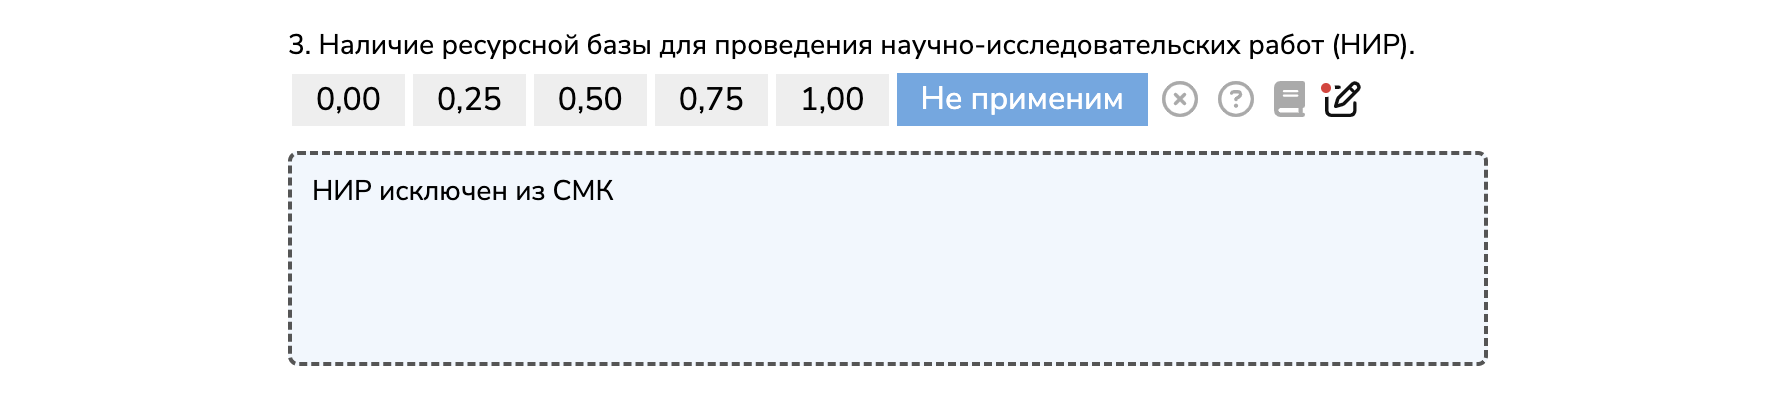
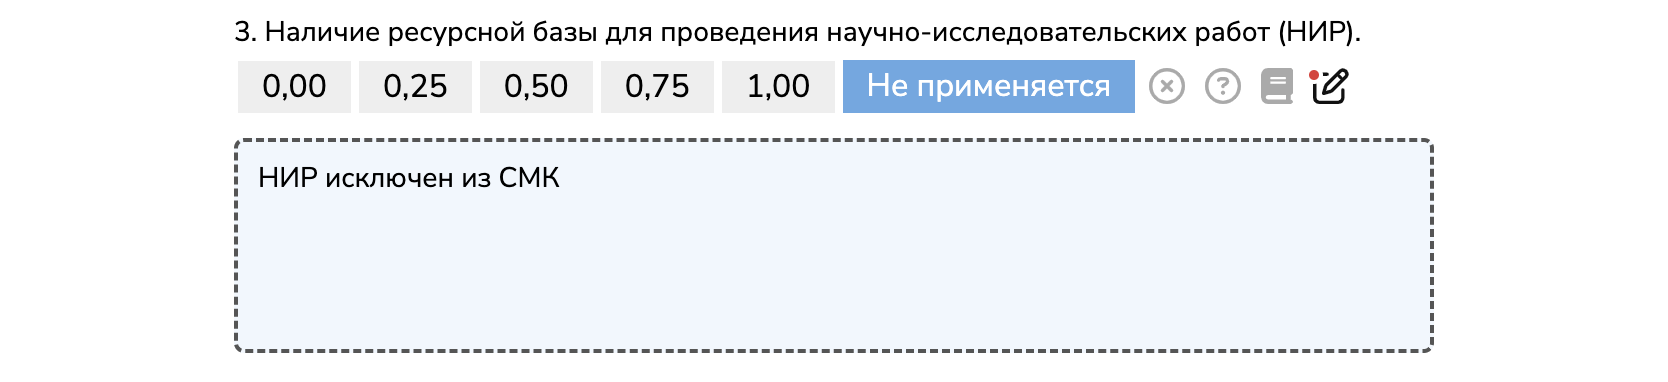
Не применим -> Не применяется

diff --git a/templates/checklist.php b/templates/checklist.php
@@ -103,7 +103,7 @@
                                     <div class="criteria__marks-flex">
                                         <label class="criteria__mark">
                                             <input type="radio" name="mark" data-criteria="<?=$criterianum?>" value="-2" hidden <?=$marks[$checkid][$criterianum] === -2 ? 'checked' : ''?>>
-                                            <span>Не применим</span>
+                                            <span>Не применяется</span>
                                         </label>
                                         <label class="criteria__icon">
                                             <input type="radio" name="mark" data-criteria="<?=$criterianum?>" value="-1" hidden <?=$marks[$checkid][$criterianum] === -1 ? 'checked' : ''?>>

diff --git a/README.md b/README.md
@@ -4,7 +4,7 @@
 
 ## Схема проведения аудитов
 
-Аудит состоит из чек-листов (всего составлено 10 чек-листов, их набор зависит от профиля предприятия). Каждый чек-лист состоит из 10–50 критериев, по которым аудитор выставляет оценки `0`, `0,25`, `0,5`, `0,75`, `1` (также критерий может быть `Не применим`, тогда он исключается из расчета). Отношение оценок с учетом показателей значимости к максимально возможной оценке — `показатель соответствия`. Чтобы получить `итоговую оценку` по чек-листу, нужно `показатель соответствия` умножить на `весовой коэффициент` чек-листа (установленный стандартом) и `корректирующий коэффициент` (зависящий от наличия у организаций Группы ОСК претензий к качеству продукции или ведения договорной работы). `Результат аудита` — сумма `итоговых оценок` по чек-листам. 
+Аудит состоит из чек-листов (всего составлено 10 чек-листов, их набор зависит от профиля предприятия). Каждый чек-лист состоит из 10–50 критериев, по которым аудитор выставляет оценки `0`, `0,25`, `0,5`, `0,75`, `1` (также критерий может `Не применяться`, тогда он исключается из расчета). Отношение оценок с учетом показателей значимости к максимально возможной оценке — `показатель соответствия`. Чтобы получить `итоговую оценку` по чек-листу, нужно `показатель соответствия` умножить на `весовой коэффициент` чек-листа (установленный стандартом) и `корректирующий коэффициент` (зависящий от наличия у организаций Группы ОСК претензий к качеству продукции или ведения договорной работы). `Результат аудита` — сумма `итоговых оценок` по чек-листам. 
 
 Согласно результату аудита, предприятие получает класс соответствия, который помогает другим Обществам оценить надежность данного предприятия и сформировать АО «ОСК» мейкерс-лист поставщика. 
 
@@ -161,7 +161,7 @@
 
 ![Описание пунктов стандарта критерия](.README/checkbook.png)
 
-<img src=".README/pen.svg" width="15" align="center">&nbsp;— отображает поле для введения обоснования оценки или комментария (это поле обязательно для заполнения при выборе пункта `Не применим`, поэтому открывается автоматически). 
+<img src=".README/pen.svg" width="15" align="center">&nbsp;— отображает поле для введения обоснования оценки или комментария (это поле обязательно для заполнения при выборе пункта `Не применяется`, поэтому открывается автоматически).
 <br>
 <img src=".README/pen-checked.svg" width="15" align="center"> — показывает, что к данному критерию написан комментарий
 
